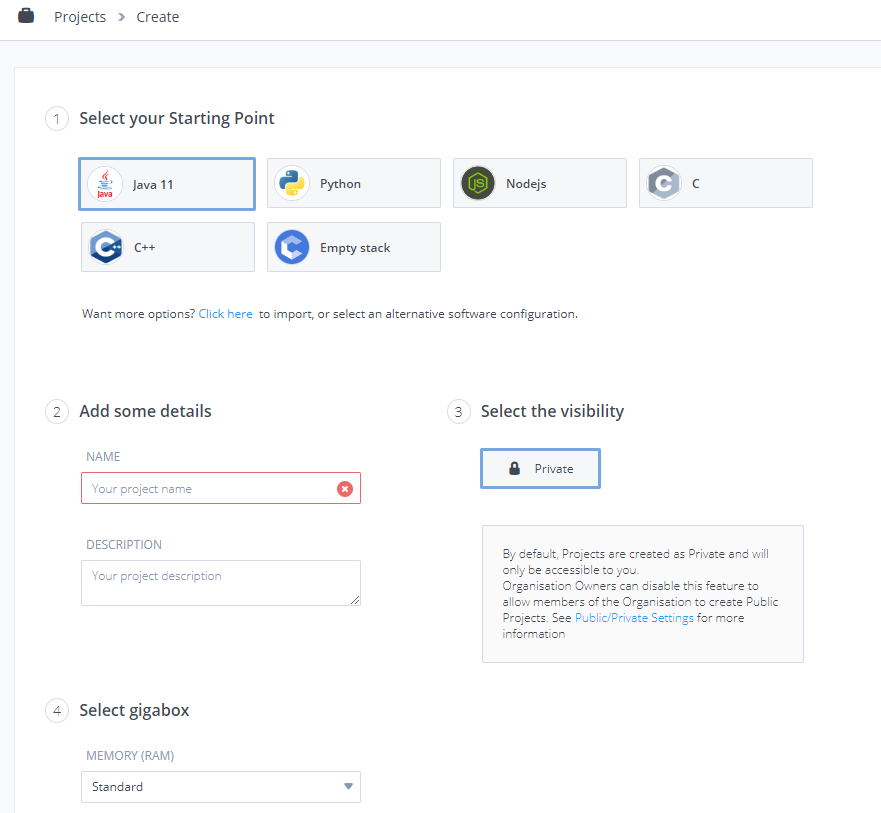
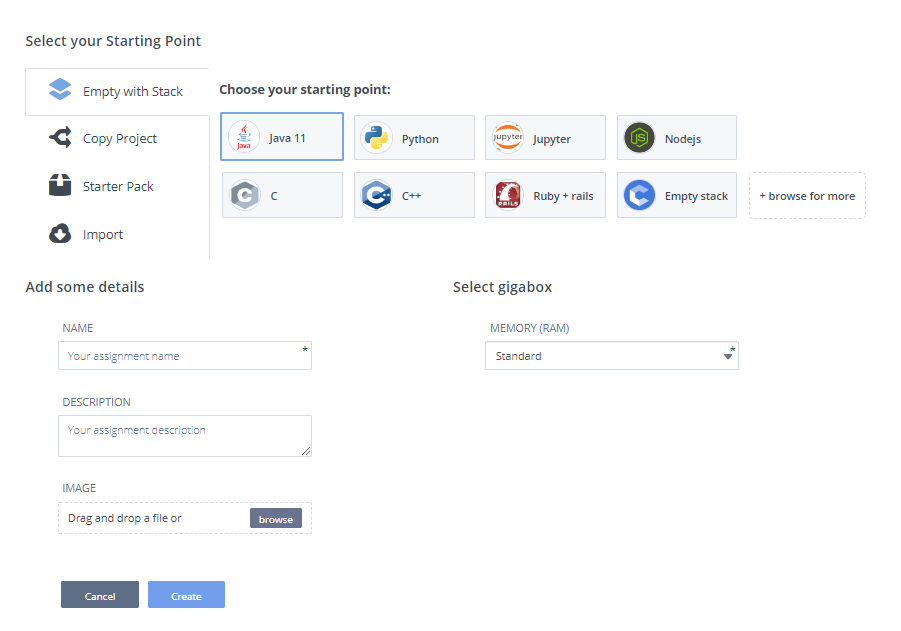
14288 (#181)
* changelog #14288

* changelog #14285 #14235 #14288

* update

* updates

diff --git a/source/common/develop/projects/create-import-project.rst b/source/common/develop/projects/create-import-project.rst
@@ -8,26 +8,21 @@ Create or Import a Project
 
 You can create a new project or import a project from the **Projects** page by following the relevant procedure.
 
-Create empty project
---------------------
-
-To create a new empty project, follow these steps:
+Follow these steps:
 
 1. Click **My Projects** in the navigation pane and click **New Project**.
 
    .. image:: /img/project_create.png
       :alt: Create Project
 
-2. Click one of the following project templates:
+2.  Select one of the available options:
 
-   - Java 11  
-   - Python 
-   - Nodejs 
-   - C
-   - C++
-   - Empty Stack 
+  - **Empty with Stack** - Create a new project selecting the **Stack** to use either from those shown or 'browse for more'
+  - **Copy Project** - Create a new project by copying one of your other projects. If you choose this option, browse to the project to **Copy From**.
+  - **Starter Pack** -  Create a project using one of our pre-configured **Starter Packs** as a starting point. This option is a combination of a Stack, a populated code workspace and in many cases a guide containing instructional material.
+  - **Import** - Create a project by importing it from Git or from a Zip file of a Codio project. If you choose this option, browse to select a **Stack** and choose the **Source** from the drop-down list.
 
-   Projects created from a template include an explanatory README.md file that provides useful information to help you get started. The template (with the exception of **Empty Stack**) also includes a pre-configured .codio menu setup with basic actions the selected project requires. If you want to re-configure the .codio menu file, see :ref:`Customizable Run Menu <customizable-run-menu>` for more information.
+Projects created from a template include an explanatory README.md file that provides useful information to help you get started. The template (with the exception of **Empty Stack**) also includes a pre-configured .codio menu setup with basic actions the selected project requires. If you want to re-configure the .codio menu file, see :ref:`Customizable Run Menu <customizable-run-menu>` for more information.
 
   Because you have **sudo** level privileges, you can also customize any stack from the command line. See :ref:`Stacks <stacks>` to learn how to create and manage your own software configuration templates.
 
@@ -39,34 +34,4 @@ To create a new empty project, follow these steps:
 
   If your project is private, you can assign read, write, or full admin permissions (ability for others to access the box from the terminal) to other users from the **Project > Permissions** menu in the IDE.
 
-Import a project
-----------------
-
-To import a project or choose an alternative software configuration, follow these steps:
-
-1. Click **My Projects** in the navigation pane and click **New Project**.
-
-   .. image:: /img/project_create.png
-      :alt: Create Project
-
-2. Click the **Click here** link to import or select an alternative software configuration.
-
-3. Click one of the following options:
-
-  - **Empty with Stack** - Create a new project and browse to the **Stack** you want to import.
-  - **Copy Project** - Create a new project by copying one of your other projects. If you choose this option, browse to the project to **Copy From**.
-  - **Starter Pack** - Create a project from a Stack and browse to the pre-configured **Starter Pack**. This option is a combination of a Stack and a pre-configured code workspace.
-  - **Import** - Create a project by importing it from Git or from a Zip file of a Codio project. If you choose this option, browse to select a **Stack** and choose the **Source** from the drop-down list.
-
-   .. image:: /img/project_create_other.png
-     :alt: Import Project
-
-3. Enter a **Name** and **Description** for your project. This is the information that is displayed in your projects list.
-
-4. Select the visibility of the project (Private or Public). By default, all projects are created as private and are only accessible to you (in **My Projects**, a padlock icon is displayed next to all private projects.
-
-.. Note:: If enabled by your organization owner, you can create public projects but these are accessible by any Codio user. See :ref:`Public and Private Settings <public-private>` for more information. 
-   
-   
-
-  If your project is private, you can assign read, write, or full admin permissions (ability for others to access the box from the terminal) to other users from the **Project > Permissions** menu in the IDE.
+5. Modify the **Select gigabox** value if your project will require more memory. See :ref:`Gigaboxes <gigabox-usage>` for more information on Gigaboxes.

diff --git a/source/instructors/authoring/guides/freeze_code.rst b/source/instructors/authoring/guides/freeze_code.rst
@@ -1,0 +1,29 @@
+.. meta::
+   :description: Freezing Code
+ 
+.. _freezecode:
+
+Freezing Code
+=============
+
+If you wish to freeze portions of code in a code file that students won't be able to edit, you can surround the code with the tags **FREEZE CODE BEGIN** and **FREEZE CODE END**. Use the appropriate syntax for your programming language (ex. Python - '#', C++ - '//' to designate these lines as comments. The section of code will be highlighted to the students along with a padlock icon at the top right of the code block. Check that you do not have mis-matched BEGIN and END statements by viewing the assignment as a test student.
+
+Example Python solution file:
+
+.. code:: python
+
+    def main:
+        # FREEZE CODE BEGIN
+        print('Hello world!')
+        # FREEZE CODE END
+
+will then show to students as:
+
+  .. image:: /img/guides/freezecode.png
+     :alt: Frozen Code
+
+
+Supported language files
+------------------------
+
+.c .cpp .java .py .html .css .r .rb .js .ts .sql .h .hpp .ocaml .ml .php .pas .yml .xml .cs .coffescript .fs .go .kt .kts .less .lua .m .h .pl .scala .vb .swift .sh .scss .sass .md .yaml .hs .rkt .ss .scm .lisp .erl .ex .exs .elm .asm .s .rs .rlib .dart .jl

diff --git a/source/instructors/authoring/guides/solution_templating.rst b/source/instructors/authoring/guides/solution_templating.rst
@@ -6,7 +6,7 @@
 Solution File Templating
 ========================
 
-To help you test/check solutions for students prior to publishing, you can write your solution code within tags (**# CODIO SOLUTION BEGIN** and **# CODIO SOLUTION END** that will be visible to the teacher when editing the assignment and allow the code to be executed but will not be available to the student when the assignment is published.
+To help you test/check solutions for students prior to publishing, you can write your solution code within tags **CODIO SOLUTION BEGIN** and **CODIO SOLUTION END**. Use the appropriate syntax for your programming language (ex. Python - '#', C++ - '//' to designate these lines as comments. The code will be visible to the teacher when editing the assignment and allow the code to be executed for testing purposes but will not be available to the student when the assignment is published. Check that you do not have mis-matched BEGIN and END statements by viewing the assignment as a test student.
 
 Example Python solution file:
 

diff --git a/source/instructors/getstarted/support/changelog.rst b/source/instructors/getstarted/support/changelog.rst
@@ -13,6 +13,10 @@ We do not report small bug fixes or issues that affect individual users, who we 
 `[I]` = Update or improvement
 `[F]` = New feature
 
+**October 2022**
+
+- `[F] [ 4th]`: Add ability to :ref:`freeze code <freezecode>` within code files that students cannot change
+
 **September 2022**
 
 - `[F] [ 8th]`: Add feature to :ref:`Hide not started assignments <hide-assignments>` where a Codio course is integrated with an LMS course

diff --git a/source/instructors/setupcourses/search-course.rst b/source/instructors/setupcourses/search-course.rst
@@ -12,6 +12,8 @@ Courses are displayed in groups based on their creation date. The most recent co
 - Jan-May - Spring
 - Jun-Aug - Summer
 
+.. Note:: The season dividers can be turned off for the organization if required. See :ref:`Set Users Dashboard <default-student-dashboard>`
+
 **My** and **All** tabs
 -----------------------
 

diff --git a/source/instructors/authoring/guides/intro.rst b/source/instructors/authoring/guides/intro.rst
@@ -21,6 +21,7 @@ Authoring
    html_content
    teacher_only
    solution_templating
+   freeze_code
    custom_button
    add_media
    open_close_content
